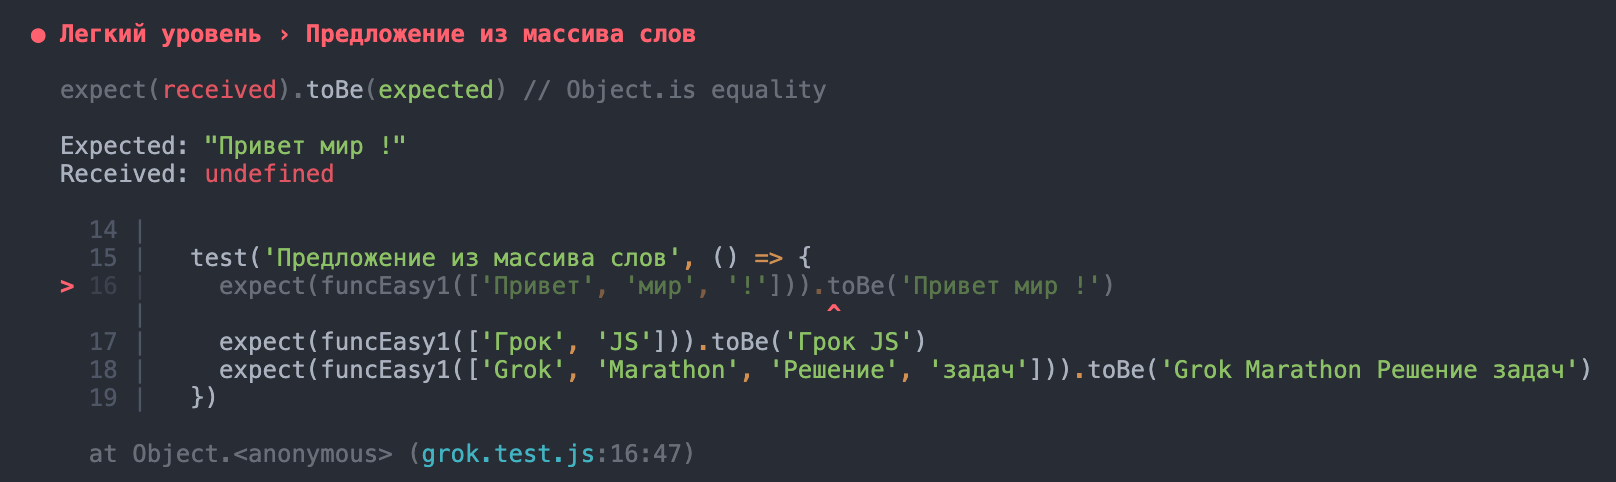
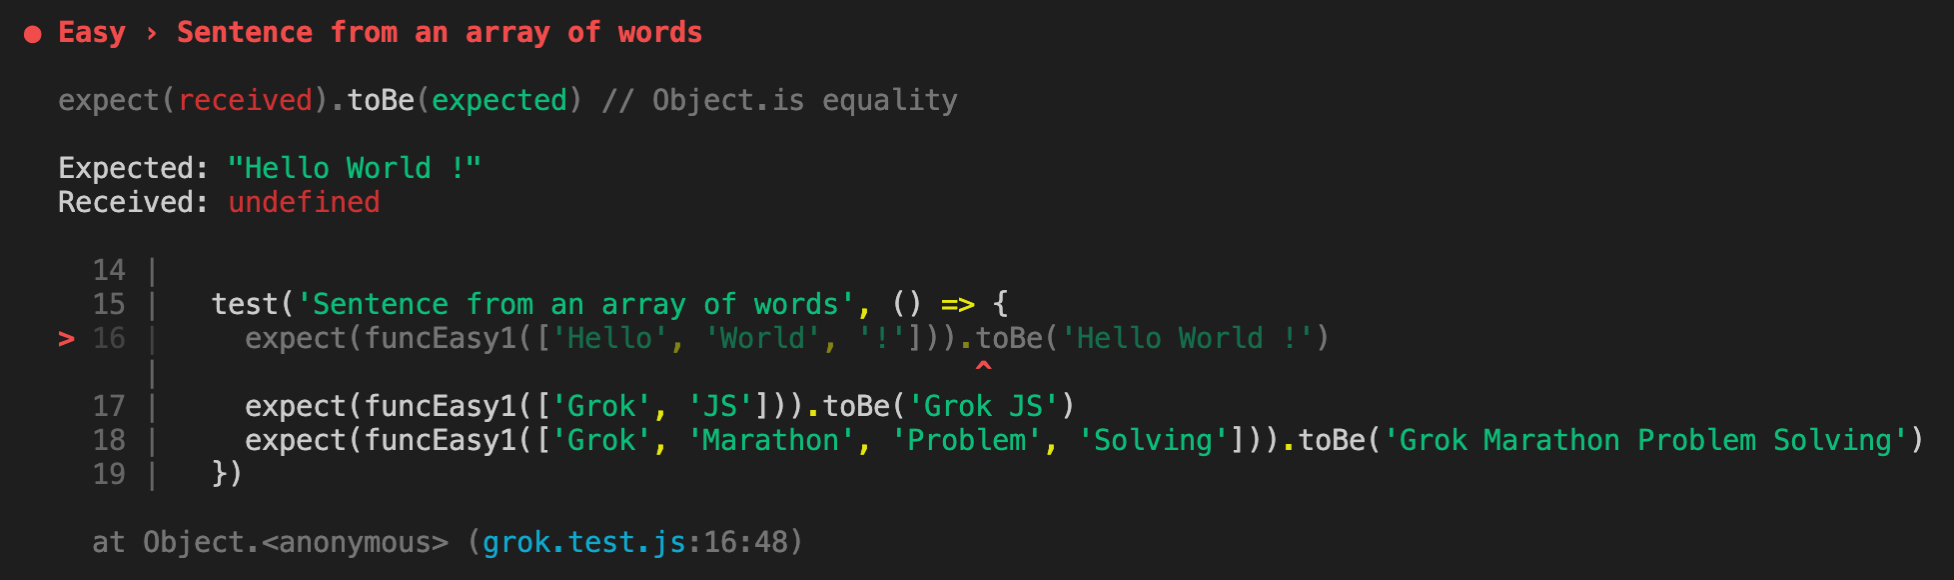
eng version

diff --git a/grok.test.js b/grok.test.js
@@ -10,27 +10,27 @@ const funcHard1 = require('./Hard/1.js')
 const funcHard2 = require('./Hard/2.js')
 const funcHard3 = require('./Hard/3.js')
 
-describe('Легкий уровень', () => {
+describe('Easy', () => {
 
-  test('Предложение из массива слов', () => {
-    expect(funcEasy1(['Привет', 'мир', '!'])).toBe('Привет мир !')
-    expect(funcEasy1(['Грок', 'JS'])).toBe('Грок JS')
-    expect(funcEasy1(['Grok', 'Marathon', 'Решение', 'задач'])).toBe('Grok Marathon Решение задач')
+  test('Sentence from an array of words', () => {
+    expect(funcEasy1(['Hello', 'World', '!'])).toBe('Hello World !')
+    expect(funcEasy1(['Grok', 'JS'])).toBe('Grok JS')
+    expect(funcEasy1(['Grok', 'Marathon', 'Problem', 'Solving'])).toBe('Grok Marathon Problem Solving')
   })
 
-  test('Значение объекта по ключу', () => {
+  test("Get an object's values using a key", () => {
     const obj = {
-      'Коля':'1000',
-      'Вася':'500',
-      'Петя':'200'
+      'James':'1000',
+      'Emma':'500',
+      'Robert':'200'
     }
-    expect(funcEasy2(obj, 'Петя')).toBe('200')
-    expect(funcEasy2(obj, 'Коля')).toBe('1000')
-    expect(funcEasy2(obj, 'Вася')).toBe('500')
+    expect(funcEasy2(obj, 'Robert')).toBe('200')
+    expect(funcEasy2(obj, 'James')).toBe('1000')
+    expect(funcEasy2(obj, 'Emma')).toBe('500')
 
   })
 
-  test('Индекс вложенного массива, содержащего заданное число', () => {
+  test("A given number's index in a 2D array", () => {
     const arr = [[1, 2, 3], [4, 5, 6], [7,8,9]]
     expect(funcEasy3(arr, 3)).toBe(0)
     expect(funcEasy3(arr, 9)).toBe(2)
@@ -39,8 +39,8 @@ describe('Легкий уровень', () => {
   })
 })
 
-describe('Средний уровень', () => {
-  test('Вывод каждого символа строки в консоль', () => {
+describe('Medium', () => {
+  test('Outputting each character of a string in the terminal console', () => {
     console.log = jest.fn();
     funcMedium1('Elbrus');
     expect(console.log).toHaveBeenCalledWith('E')
@@ -51,7 +51,7 @@ describe('Средний уровень', () => {
     expect(console.log).toHaveBeenCalledWith('s')
   });
 
-  test('Массив из 10 случайных целых чисел от 0 до 10', () => {
+  test('Array of 10 random integers from 0 to 10', () => {
     const array = funcMedium2()
     expect(array).toHaveLength(10)
     for (let i = 0; i < array.length; i++) {
@@ -63,7 +63,7 @@ describe('Средний уровень', () => {
     expect(funcMedium2()).not.toEqual(funcMedium2())
   });
 
-  test('Сумма чисел в заданном диапазоне', () => {
+  test('Sum of numbers in a given range', () => {
     expect(funcMedium3(1, 10)).toBe(55)
     expect(funcMedium3(4, 4)).toBe(4)
     expect(funcMedium3(5, 3)).toBe(12)
@@ -71,9 +71,9 @@ describe('Средний уровень', () => {
 
 })
 
-describe('Сложный уровень', () => {
+describe('Hard', () => {
 
-  test('Треугольник, имеющий правильные значения', () => {
+  test('Triangle with correct values', () => {
     expect(funcHard1(0,0,0)).toBe(false)
     expect(funcHard1(1,1,1)).toBe(true)
     expect(funcHard1(3,4,5)).toBe(true)
@@ -82,7 +82,7 @@ describe('Сложный уровень', () => {
     expect(funcHard1(10, 10, 100)).toBe(false)
   });
 
-  test('Самая длинная строка', () => {
+  test('Longest string', () => {
     expect(funcHard2([])).toBe(null)
     expect(funcHard2(['cat', 'applesauce', 'apples'])).toBe('applesauce')
     expect(funcHard2(['js', 'node', 'express', 'mongoose'])).toBe('mongoose')
